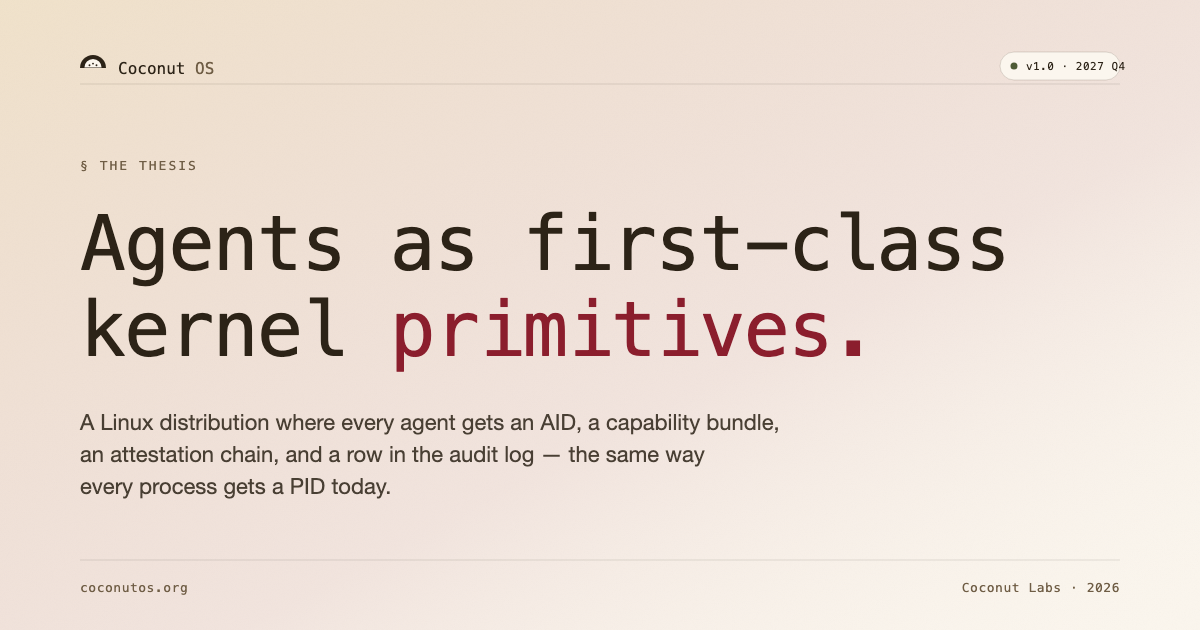
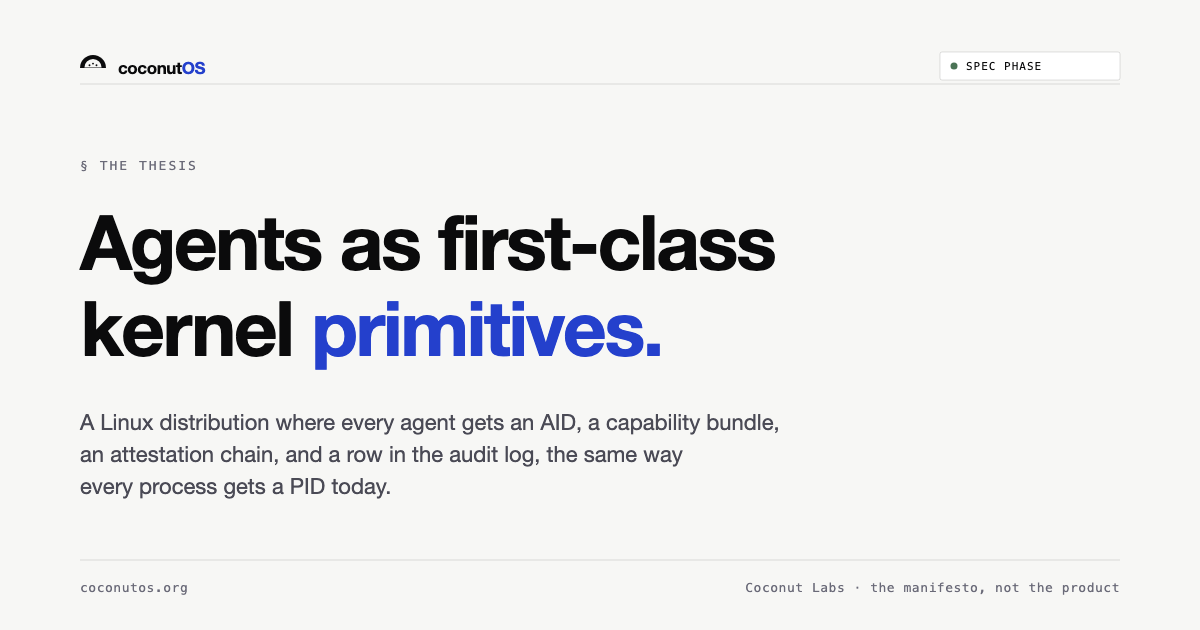
Verification fixes: label contrast + OG card
- muted labels lose their 70-80% alpha (10px labels dipped under 4.5:1
  on tinted grounds); computed floors now 4.96 light / 4.84 dark
- OG card redrawn on the house system: date badge replaced with SPEC PHASE,
  em dash dropped, warm bloom/grain removed; og.png re-rendered from it
- Playwright pass: all text pairs clear 4.5 body / 3.0 large in both
  schemes across all 6 routes; 375px shows no horizontal overflow

diff --git a/src/components/diagrams/layer-stack.tsx b/src/components/diagrams/layer-stack.tsx
@@ -65,7 +65,7 @@ export function LayerStack() {
                 <div className="grid grid-cols-[60px_1fr_auto] sm:grid-cols-[80px_1fr_auto] gap-3 sm:gap-5 items-center p-4 sm:p-5">
                   <div className="flex flex-col items-start">
                     <span className="font-mono text-[12.5px] tracking-tight" style={{ color: tone.tx }}>{l.n}</span>
-                    <span className="mt-0.5 font-mono text-[10px] uppercase tracking-[0.1em] text-[color:var(--muted)]/80">layer</span>
+                    <span className="mt-0.5 font-mono text-[10px] uppercase tracking-[0.1em] text-[color:var(--muted)]">layer</span>
                   </div>
                   <div className="min-w-0">
                     <div className="text-[15px] tracking-tight text-[color:var(--fg)] leading-tight">{l.name}</div>

diff --git a/src/components/diagrams/syscall-hotpath.tsx b/src/components/diagrams/syscall-hotpath.tsx
@@ -78,7 +78,7 @@ export function SyscallHotPath() {
             return (
               <li key={i}>
                 {isHandoff && (
-                  <div className="flex items-center gap-2 px-1 py-2 -mt-1 font-mono text-[10px] uppercase tracking-[0.12em] text-[color:var(--muted)]/70">
+                  <div className="flex items-center gap-2 px-1 py-2 -mt-1 font-mono text-[10px] uppercase tracking-[0.12em] text-[color:var(--muted)]">
                     <span className="w-6 h-px bg-[color-mix(in_oklab,var(--fg)_18%,transparent)]" />
                     handoff
                     <span className="flex-1 h-px bg-[color-mix(in_oklab,var(--fg)_10%,transparent)]" />

diff --git a/src/components/diagrams/agentfs.tsx b/src/components/diagrams/agentfs.tsx
@@ -113,7 +113,7 @@ function TreeView({ node, depth, isLast, prefix }: { node: Node; depth: number; 
   return (
     <>
       <div className="flex items-baseline whitespace-pre">
-        <span className="text-[color:var(--muted)]/80 select-none">{prefix}{branch}</span>
+        <span className="text-[color:var(--muted)] select-none">{prefix}{branch}</span>
         <span style={{ color: nameColor }}>{node.name}{nameSuffix}</span>
         {node.desc && (
           <span className="ml-3 text-[color:var(--muted)] text-[11.5px] leading-tight">

diff --git a/src/components/stack.tsx b/src/components/stack.tsx
@@ -89,7 +89,7 @@ export function Stack() {
                   <div className="font-mono text-[12px] text-[color:var(--muted)] tracking-tight">
                     {layer.n}
                   </div>
-                  <div className="mt-1 font-mono text-[10px] uppercase tracking-[0.1em] text-[color:var(--muted)]/80">
+                  <div className="mt-1 font-mono text-[10px] uppercase tracking-[0.1em] text-[color:var(--muted)]">
                     Layer
                   </div>
                 </div>
